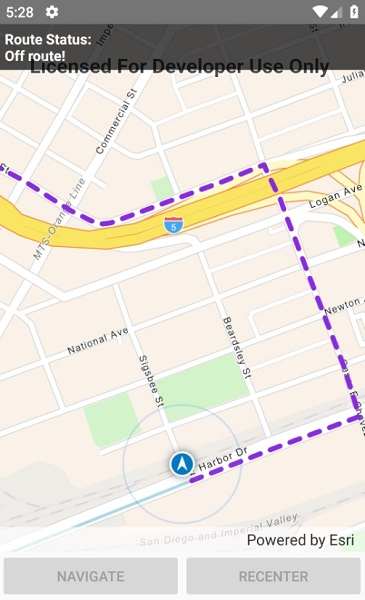
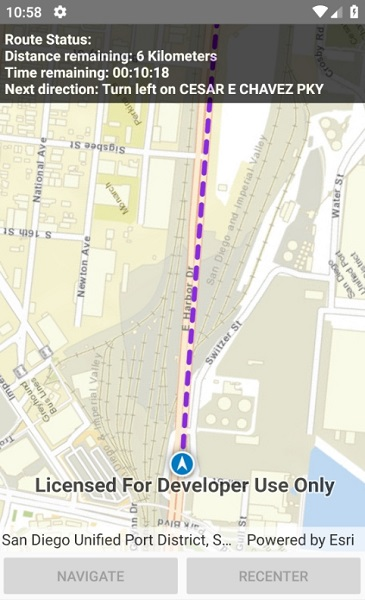
Suggested changes

diff --git a/src/Forms/Shared/Samples/Network Analysis/NavigateRouteRerouting/NavigateRouteRerouting.xaml.cs b/src/Forms/Shared/Samples/Network Analysis/NavigateRouteRerouting/NavigateRouteRerouting.xaml.cs
@@ -73,7 +73,7 @@ namespace ArcGISRuntimeXamarin.Samples.NavigateRouteRerouting
             try
             {
                 // Create the map view.
-                MyMapView.Map = new Map(Basemap.CreateNavigationVector());
+                MyMapView.Map = new Map(Basemap.CreateStreets());
 
                 // Create the route task, using the routing service.
                 _routeTask = await RouteTask.CreateAsync(_networkGeodatabasePath, "Streets_ND");
@@ -164,7 +164,7 @@ namespace ArcGISRuntimeXamarin.Samples.NavigateRouteRerouting
             // Use this instead if you want real location:
             // MyMapView.LocationDisplay.DataSource = new RouteTrackerLocationDataSource(new SystemLocationDataSource(), _tracker);
 
-            // Enable the location display (this wil start the location data source).
+            // Enable the location display (this will start the location data source).
             MyMapView.LocationDisplay.IsEnabled = true;
         }
 

diff --git a/src/Android/Xamarin.Android/Samples/Network Analysis/NavigateRouteRerouting/NavigateRouteRerouting.cs b/src/Android/Xamarin.Android/Samples/Network Analysis/NavigateRouteRerouting/NavigateRouteRerouting.cs
@@ -91,7 +91,7 @@ namespace ArcGISRuntimeXamarin.Samples.NavigateRouteRerouting
             try
             {
                 // Create the map view.
-                _myMapView.Map = new Map(Basemap.CreateNavigationVector());
+                _myMapView.Map = new Map(Basemap.CreateStreets());
 
                 // Create the text to speech object.
                 _textToSpeech = new TextToSpeech(this, this, "com.google.android.tts");
@@ -185,7 +185,7 @@ namespace ArcGISRuntimeXamarin.Samples.NavigateRouteRerouting
             // Use this instead if you want real location:
             // _myMapView.LocationDisplay.DataSource = new RouteTrackerLocationDataSource(new SystemLocationDataSource(), _tracker);
 
-            // Enable the location display (this wil start the location data source).
+            // Enable the location display (this will start the location data source).
             _myMapView.LocationDisplay.IsEnabled = true;
         }
 

diff --git a/src/WPF/ArcGISRuntime.WPF.Viewer/Samples/Network Analysis/NavigateRouteRerouting/NavigateRouteRerouting.xaml.cs b/src/WPF/ArcGISRuntime.WPF.Viewer/Samples/Network Analysis/NavigateRouteRerouting/NavigateRouteRerouting.xaml.cs
@@ -8,7 +8,6 @@
 // language governing permissions and limitations under the License.
 
 using ArcGISRuntime.Samples.Managers;
-using ArcGISRuntime.WPF.Topics.NavigateRoute;
 using Esri.ArcGISRuntime.Geometry;
 using Esri.ArcGISRuntime.Location;
 using Esri.ArcGISRuntime.Mapping;
@@ -167,7 +166,7 @@ namespace ArcGISRuntime.WPF.Samples.NavigateRouteRerouting
             // Use this instead if you want real location:
             // MyMapView.LocationDisplay.DataSource = new RouteTrackerLocationDataSource(new SystemLocationDataSource(), _tracker);
 
-            // Enable the location display (this wil start the location data source).
+            // Enable the location display (this will start the location data source).
             MyMapView.LocationDisplay.IsEnabled = true;
         }
 

diff --git a/src/iOS/Xamarin.iOS/Samples/Network Analysis/NavigateRouteRerouting/NavigateRouteRerouting.cs b/src/iOS/Xamarin.iOS/Samples/Network Analysis/NavigateRouteRerouting/NavigateRouteRerouting.cs
@@ -173,7 +173,7 @@ namespace ArcGISRuntimeXamarin.Samples.NavigateRouteRerouting
             // Use this instead if you want real location:
             //  _myMapView.LocationDisplay.DataSource = new RouteTrackerLocationDataSource(new SystemLocationDataSource(), _tracker);
 
-            // Enable the location display (this wil start the location data source).
+            // Enable the location display (this will start the location data source).
             _myMapView.LocationDisplay.IsEnabled = true;
         }
 

diff --git a/src/UWP/ArcGISRuntime.UWP.Viewer/Samples/Network Analysis/NavigateRouteRerouting/NavigateRouteRerouting.xaml.cs b/src/UWP/ArcGISRuntime.UWP.Viewer/Samples/Network Analysis/NavigateRouteRerouting/NavigateRouteRerouting.xaml.cs
@@ -170,7 +170,7 @@ namespace ArcGISRuntime.UWP.Samples.NavigateRouteRerouting
             // Use this instead if you want real location:
             // MyMapView.LocationDisplay.DataSource = new RouteTrackerLocationDataSource(new SystemLocationDataSource(), _tracker);
 
-            // Enable the location display (this wil start the location data source).
+            // Enable the location display (this will start the location data source).
             MyMapView.LocationDisplay.IsEnabled = true;
         }
 

diff --git a/src/Android/Xamarin.Android/Samples/Network Analysis/NavigateRouteRerouting/GpxProvider.cs b/src/Android/Xamarin.Android/Samples/Network Analysis/NavigateRouteRerouting/GpxProvider.cs
@@ -30,6 +30,7 @@ namespace ArcGISRuntimeXamarin.Samples.NavigateRouteRerouting
         public GpxProvider(string gpxFilePath)
         {
             _gpsPoints = new List<MapPoint>();
+
             // Read the GPX data.
             ReadLocations(gpxFilePath);
 

diff --git a/src/Forms/Shared/Samples/Network Analysis/NavigateRouteRerouting/GpxProvider.cs b/src/Forms/Shared/Samples/Network Analysis/NavigateRouteRerouting/GpxProvider.cs
@@ -30,6 +30,7 @@ namespace ArcGISRuntimeXamarin.Samples.NavigateRouteRerouting
         public GpxProvider(string gpxFilePath)
         {
             _gpsPoints = new List<MapPoint>();
+
             // Read the GPX data.
             ReadLocations(gpxFilePath);
 

diff --git a/src/iOS/Xamarin.iOS/Samples/Network Analysis/NavigateRouteRerouting/GpxProvider.cs b/src/iOS/Xamarin.iOS/Samples/Network Analysis/NavigateRouteRerouting/GpxProvider.cs
@@ -30,6 +30,7 @@ namespace ArcGISRuntimeXamarin.Samples.NavigateRouteRerouting
         public GpxProvider(string gpxFilePath)
         {
             _gpsPoints = new List<MapPoint>();
+
             // Read the GPX data.
             ReadLocations(gpxFilePath);
 

diff --git a/src/UWP/ArcGISRuntime.UWP.Viewer/Samples/Network Analysis/NavigateRouteRerouting/GpxProvider.cs b/src/UWP/ArcGISRuntime.UWP.Viewer/Samples/Network Analysis/NavigateRouteRerouting/GpxProvider.cs
@@ -30,6 +30,7 @@ namespace ArcGISRuntime.UWP.Samples.NavigateRouteRerouting
         public GpxProvider(string gpxFilePath)
         {
             _gpsPoints = new List<MapPoint>();
+
             // Read the GPX data.
             ReadLocations(gpxFilePath);
 

diff --git a/src/WPF/ArcGISRuntime.WPF.Viewer/Samples/Network Analysis/NavigateRouteRerouting/GpxProvider.cs b/src/WPF/ArcGISRuntime.WPF.Viewer/Samples/Network Analysis/NavigateRouteRerouting/GpxProvider.cs
@@ -30,6 +30,7 @@ namespace ArcGISRuntime.WPF.Samples.NavigateRouteRerouting
         public GpxProvider(string gpxFilePath)
         {
             _gpsPoints = new List<MapPoint>();
+
             // Read the GPX data.
             ReadLocations(gpxFilePath);
 
